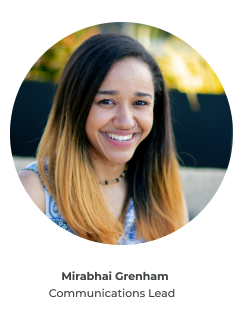
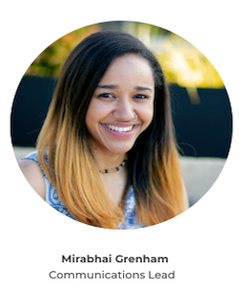
adjusts to whoWeAre section and SASS

diff --git a/index.html b/index.html
@@ -4,41 +4,47 @@
     <meta charset="UTF-8">
     <meta name="viewport" content="width=device-width, initial-scale=1.0">
     <meta http-equiv="X-UA-Compatible" content="ie=edge">
-    <title>Document</title>
+    <title>Greenhouse: Innovation Lab</title>
     <link href="https://fonts.googleapis.com/css?family=Montserrat:400,700,900&display=swap" rel="stylesheet">
     <link rel="stylesheet" href="./styles.css">
 </head>
 <body>
     <section class="whoWeAre">
-        <div class="box box-1a">
-            <div class="img">
+
+        <div class="box box-1">
+            <div class="title-img">
                 <img src="imgs/who_we_are.PNG" alt="Who We Are.">
             </div>
-            <div class="whoWeAre-box-1">
-                <h1>
-                    The Greenhouse is a technology innovation lab.
+  
+            <div class="info">
+                <h1 class="head-txt">
+                    The Greenhouse<br>is a technology innovation lab.
                 </h1>
                 <div class="para">
                     <p>
                         The Greenhouse is a group of U.S. Bank employees based in Atlanta, GA who are passionate about technology, innovation, and user experience design. Our purpose is to 
                         <strong>create value by accelerating the ideation to commercialization process.</strong>
-                         We work with teams across Elavon and U.S. Bank at no cost, enabling them to make customer-centric decisions, faster.
+                            We work with teams across Elavon and U.S. Bank at no cost, enabling them to make customer-centric decisions, faster.
                     </p>
                 </div>
-
-                <div class="greenhouse-staff">
-                    <img src="imgs/staff/jose_rivera.png" alt="Jose Rivera, SVP & Founder of Greenhouse">
-                    <img src="imgs/staff/andrew_cantrell.png" alt="Andrew Cantrell, AVP: Applied Research and Strategy">
-                    <img src="imgs/staff/madison_watts.png" alt="Madison Watts, Design and Ideation Lead">
-                    <img src="imgs/staff/terron_hyde.png" alt="Terron Hyde, AVP: Proof of Technology/Concept">
-                    <img src="imgs/staff/utthej_nukala.png" alt="Utthej Nuakala, Senior Architect and DTS Lead">
-                    <img src="imgs/staff/alexandria_jones.png" alt="Alexandria Jones, Design Lead">
-                    <img src="imgs/staff/mirahbai_grenham.png" alt="Mirahbai Grenham, Communications Lead">
-                    <img src="imgs/staff/storm_tucheck.png" alt="Storm Tucheck, Application Developer">
-                </div>
-
             </div>
         </div>
+
+        <div class="greenhouse-staff-pics">
+            <div class="staff-pics-row">
+                <img src="imgs/staff/jose_rivera.png" alt="Jose Rivera, SVP & Founder of Greenhouse">
+                <img src="imgs/staff/andrew_cantrell.png" alt="Andrew Cantrell, AVP: Applied Research and Strategy">
+                <img src="imgs/staff/madison_watts.png" alt="Madison Watts, Design and Ideation Lead">
+                <img src="imgs/staff/terron_hyde.png" alt="Terron Hyde, AVP: Proof of Technology/Concept">
+            </div>
+            <div class="staff-pics-row">
+                <img src="imgs/staff/utthej_nukala.png" alt="Utthej Nuakala, Senior Architect and DTS Lead">
+                <img src="imgs/staff/alexandria_jones.png" alt="Alexandria Jones, Design Lead">
+                <img src="imgs/staff/mirahbai_grenham.png" alt="Mirahbai Grenham, Communications Lead">
+                <img src="imgs/staff/storm_tucheck.png" alt="Storm Tucheck, Application Developer">
+            </div>
+        </div>
+
     </section>
 
 
@@ -46,7 +52,7 @@
 
         <!-- First box ~ How we do it. -->
         <div class="box box-1">
-            <div class="img">
+            <div class="title-img">
                 <img src="imgs/how.PNG" alt="How we do it.">
             </div>
             <div class="info">

diff --git a/styles.css b/styles.css
@@ -15,10 +15,10 @@ section.whoWeAre, section.howWeDoIt {
 }
 
 body {
-  background-color: white;
+  background-color: #fdfdfd;
 }
 
-section.howWeDoIt {
+section.howWeDoIt, section.whoWeAre {
   display: -webkit-box;
   display: -ms-flexbox;
   display: flex;
@@ -29,22 +29,7 @@ section.howWeDoIt {
   position: relative;
 }
 
-section.whoWeAre {
-  display: -webkit-box;
-  display: -ms-flexbox;
-  display: flex;
-  -webkit-box-orient: vertical;
-  -webkit-box-direction: normal;
-      -ms-flex-direction: column;
-          flex-direction: column;
-  position: relative;
-}
-
-div.whoWeAre-box-1 h1 {
-  font-color: red;
-}
-
-div.greenhouse-staff {
+div.greenhouse-staff-pics {
   display: -webkit-box;
   display: -ms-flexbox;
   display: flex;
@@ -55,10 +40,13 @@ div.greenhouse-staff {
   -webkit-box-pack: start;
       -ms-flex-pack: start;
           justify-content: flex-start;
+  max-width: 1024px;
+  margin: auto;
 }
 
-div.greenhouse-staff img {
-  width: 25%;
+div.greenhouse-staff-pics div.staff-pics-row img {
+  -ms-flex-preferred-size: 25%;
+      flex-basis: 25%;
 }
 
 div.box {
@@ -73,12 +61,12 @@ div.box-1 {
   padding-bottom: 3rem;
 }
 
-div.box-1 div.img {
+div.box-1 div.title-img {
   -ms-flex-preferred-size: 40%;
       flex-basis: 40%;
 }
 
-div.box-1 div.img img {
+div.box-1 div.title-img img {
   width: 50%;
 }
 
@@ -98,8 +86,9 @@ div.box-1 div.info {
 }
 
 div.box-1 div.info h1.head-txt {
-  font-size: 1.7rem;
+  font-size: 6rem;
   font-weight: 700;
+  padding-bottom: 4rem;
 }
 
 div.box-1 div.para {
@@ -111,6 +100,14 @@ div.box-1 div.para {
       -ms-flex-direction: column;
           flex-direction: column;
   width: 90%;
+}
+
+div.box-1 div.para p {
+  font-size: 1.75rem;
+}
+
+div.box-1 div.para p strong {
+  font-size: 1.75rem;
 }
 
 div.box-1 div.para img {

diff --git a/styles.sass b/styles.sass
@@ -1,55 +1,49 @@
 //Variables
 $gray: #F7F7F7
+$background-light: #fdfdfd
+$background-dark: #202020
 
 //Base Styles
 *
     margin: 0
-    padding: 0
+    padding: 0 
     font-size: 62.5%
     font-family: 'Montserrat', sans-serif
 
 section.whoWeAre, section.howWeDoIt
     display: flex
-    
     margin: auto
     width: 100%
     padding-top: 2rem
 
 
 body
-    background-color: white
+    background-color: $background-light
 
 
 //How Do It Mobile-First Styles
-section.howWeDoIt
-    display: flex
-    flex-direction: column
-    position: relative
-section.whoWeAre
+section.howWeDoIt, section.whoWeAre
     display: flex
     flex-direction: column
     position: relative
 
-div.whoWeAre-box-1
-    h1
-        font-color: red
-
-div.greenhouse-staff
+div.greenhouse-staff-pics
     display: flex
     flex-flow: row wrap
     justify-content: flex-start
-    img
-        width: 25%
+    max-width: 1024px
+    margin: auto
+    div.staff-pics-row
+        img
+            flex-basis: 25%       
         
-
-    
 div.box
     display: flex
     max-width: 1024px
     margin: auto
 div.box-1
     padding-bottom: 3rem
-    div.img
+    div.title-img
         flex-basis: 40%
         img
             width: 50%
@@ -59,12 +53,18 @@ div.box-1
         justify-content: flex-start
         flex-direction: column
         h1.head-txt
-            font-size: 1.7rem
+            font-size: 6rem
             font-weight: 700
+            padding-bottom: 4rem
+
     div.para
         display: flex
         flex-direction: column
         width: 90%
+        p
+            font-size: 1.75rem
+            strong
+                font-size: 1.75rem
         img
             width: 110%
 
